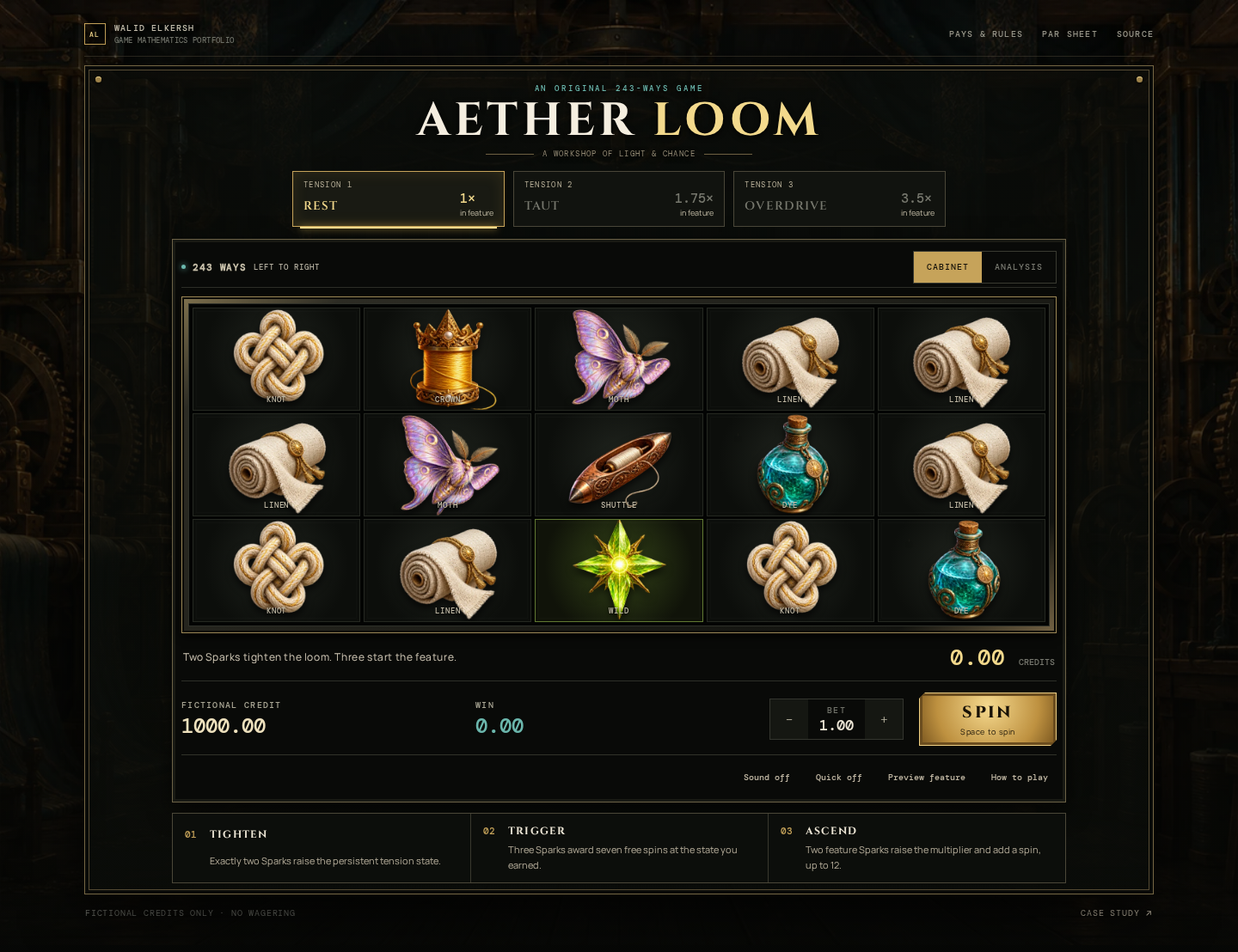
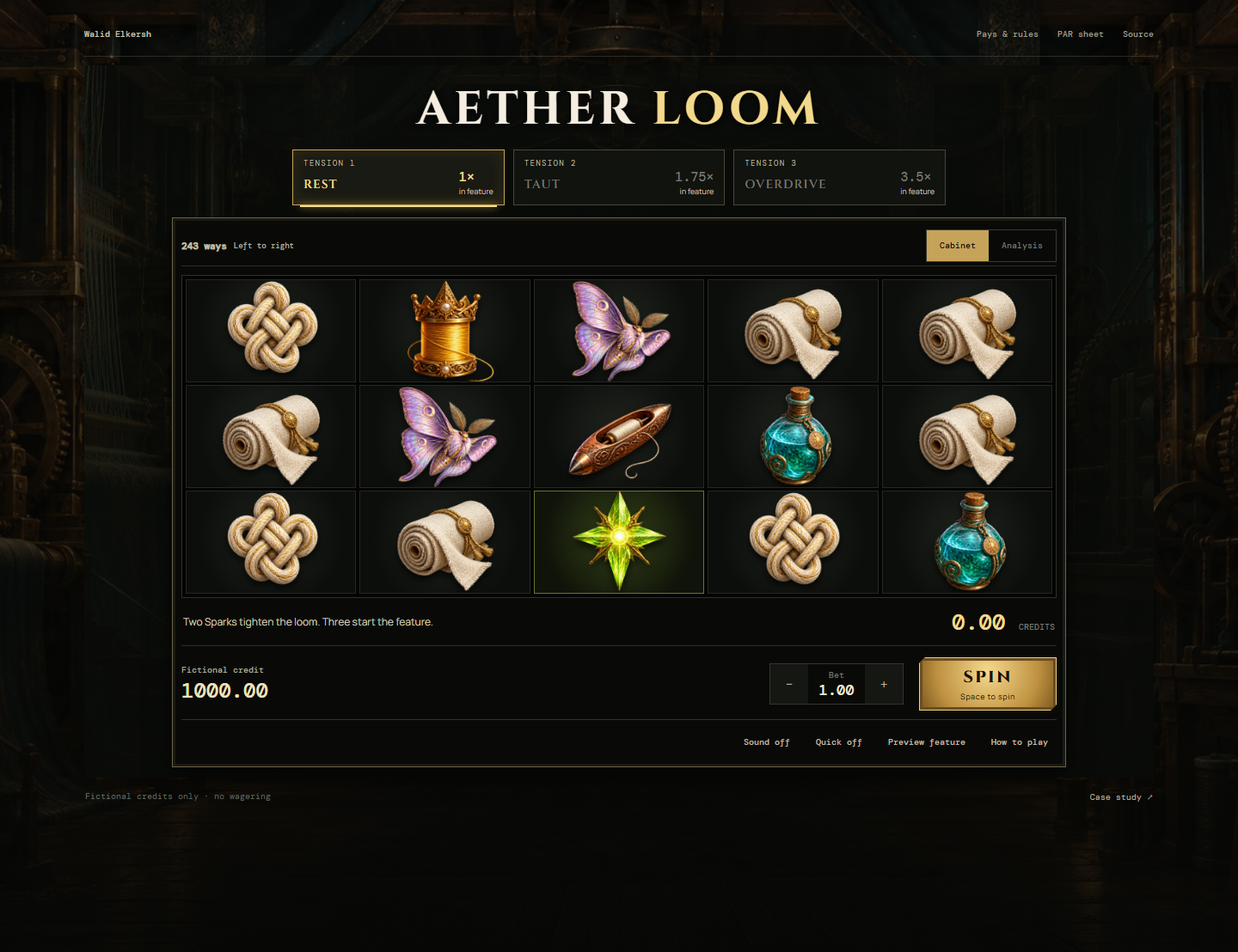
Simplify cabinet UI
Drop the symbol name labels, the taglines, the status dot, the numbered
rules strip and the duplicate win readout. Remove two frame layers and
keep spaced capitals only on the tension ladder.

diff --git a/src/SlotGame.Playable/wwwroot/css/aether-loom.css b/src/SlotGame.Playable/wwwroot/css/aether-loom.css
@@ -1,162 +1,148 @@
 @import url('https://fonts.googleapis.com/css2?family=Cinzel:wght@600;700;800&family=DM+Mono:wght@400;500&family=Manrope:wght@400;600;700&display=swap');
 
 :root{color-scheme:dark;--ink:#eee7d7;--muted:#9c9a8d;--night:#080907;--panel:#10120f;--panel-2:#171a15;--line:#3b3a2e;--brass:#c6a35a;--brass-hi:#f3d98c;--teal:#6bb7ad;--amber:#f0a836;--aether:#b8d84a}
-*{box-sizing:border-box}html{min-height:100%;background:#070806}body{margin:0;min-height:100%;color:var(--ink);font-family:Manrope,system-ui,sans-serif;background:#070806}button,a{font:inherit;color:inherit}button{cursor:pointer}button:disabled{cursor:not-allowed}a{text-decoration:none}.app-shell{min-height:100vh;background:linear-gradient(#06070599,#060705e8),url('../images/loom-workshop.webp') center top/cover fixed no-repeat}.game-page{width:min(1280px,100%);margin:auto;padding:14px clamp(14px,3vw,38px) 28px}.masthead{height:46px;display:flex;align-items:center;justify-content:space-between;border-bottom:1px solid #69604a66;font:500 9px DM Mono;text-transform:uppercase;letter-spacing:.12em}.wordmark{display:flex;align-items:center;gap:10px;color:#c9c2b1}.wordmark small{display:block;margin-top:2px;font-size:7px;color:#74766d}.mark{width:25px;height:25px;display:grid;place-items:center;border:1px solid var(--brass);color:var(--brass-hi);font-size:8px}.masthead nav{display:flex;align-items:center;gap:22px}.masthead nav a,.masthead nav button{border:0;background:none;padding:7px 0;color:var(--muted);font:inherit;text-transform:inherit;letter-spacing:inherit}.masthead nav a:hover,.masthead nav button:hover{color:var(--brass-hi)}
-.cabinet-shell{margin-top:10px;padding:12px clamp(10px,2vw,24px) 0;background:linear-gradient(#090b08dc,#090b08f5),url('../images/loom-workshop.webp') center/cover;border:1px solid #756744;box-shadow:0 18px 65px #000b,inset 0 0 0 4px #090a08,inset 0 0 0 5px #554a33;position:relative}.cabinet-shell:before,.cabinet-shell:after{content:"";position:absolute;top:12px;width:7px;height:7px;border-radius:50%;background:#9d8249;box-shadow:inset 0 1px #ead28d,0 1px 3px #000}.cabinet-shell:before{left:12px}.cabinet-shell:after{right:12px}
-.title-lockup{text-align:center;padding:2px 0 7px;text-shadow:0 2px 6px #000}.title-lockup>p{margin:0;font:500 7px DM Mono;letter-spacing:.32em;color:var(--teal)}.title-lockup h1{margin:1px 0 -1px;font:700 clamp(27px,4vw,46px)/1 Cinzel,serif;letter-spacing:.12em;color:var(--brass-hi)}.title-lockup h1 span{color:#f5eee0}.title-rule{display:flex;align-items:center;justify-content:center;gap:10px}.title-rule i{display:block;width:56px;height:1px;background:#6e6042}.title-rule b{font:500 7px DM Mono;letter-spacing:.24em;color:#918873}
+*{box-sizing:border-box}html{min-height:100%;background:#070806}body{margin:0;min-height:100%;color:var(--ink);font-family:Manrope,system-ui,sans-serif;background:#070806}button, a{font:inherit;color:inherit}button{cursor:pointer}button:disabled{cursor:not-allowed}a{text-decoration:none}.app-shell{min-height:100vh;background:linear-gradient(#06070599,#060705e8),url('../images/loom-workshop.webp') center top/cover fixed no-repeat}.game-page{width:min(1280px,100%);margin:auto;padding:14px clamp(14px,3vw,38px) 28px}.masthead{height:46px;display:flex;align-items:center;justify-content:space-between;border-bottom:1px solid #69604a66;font:500 9px DM Mono}.wordmark{display:flex;align-items:center;gap:10px;color:#c9c2b1}.masthead nav{display:flex;align-items:center;gap:22px}.masthead nav a, .masthead nav button{border:0;background:none;padding:7px 0;color:var(--muted);font:inherit}.masthead nav a:hover, .masthead nav button:hover{color:var(--brass-hi)}
+.cabinet-shell{margin-top:10px;padding:12px clamp(10px,2vw,24px) 0;background:linear-gradient(#090b08dc,#090b08f5),url('../images/loom-workshop.webp') center/cover;position:relative}
+.title-lockup{text-align:center;padding:2px 0 7px;text-shadow:0 2px 6px #000}.title-lockup h1{margin:1px 0 -1px;font:700 clamp(27px,4vw,46px)/1 Cinzel,serif;letter-spacing:.12em;color:var(--brass-hi)}.title-lockup h1 span{color:#f5eee0}
 .tension-ladder{width:min(640px,92%);margin:0 auto 8px;display:grid;grid-template-columns:repeat(3,1fr);gap:6px}.tension-step{position:relative;display:grid;grid-template-columns:1fr auto;align-items:center;padding:5px 9px;border:1px solid #494638;background:#11130f;color:#77786e}.tension-step small{grid-column:1/-1;font:400 6px DM Mono;letter-spacing:.15em}.tension-step strong{font:600 9px Cinzel,serif;letter-spacing:.08em;text-transform:uppercase}.tension-step span{font:500 8px DM Mono}.tension-step.active{border-color:#7e714e;color:#c7b991;background:#191a13}.tension-step.current{border-color:var(--brass);color:var(--brass-hi);box-shadow:inset 0 0 18px #d6aa4022}.tension-step.current:after{content:"";position:absolute;left:8px;right:8px;bottom:-3px;height:2px;background:var(--brass-hi);box-shadow:0 0 8px #e6bd57}
-.machine-card{width:min(900px,100%);margin:auto;background:#090a08;border:1px solid #6c6247;box-shadow:inset 0 0 0 3px #191a14,0 10px 25px #000a;padding:8px 10px 10px}.machine-toolbar{height:30px;display:flex;align-items:center;justify-content:space-between;border-bottom:1px solid #2d2f28}.reel-status{display:flex;align-items:center;gap:8px;font:500 7px DM Mono;text-transform:uppercase;letter-spacing:.08em;color:#8b8b7f}.reel-status strong{color:#c8c0aa}.reel-status small{color:#66685f}.status-lamp{width:5px;height:5px;border-radius:50%;background:var(--teal);box-shadow:0 0 7px var(--teal)}.mode-switch{display:flex;align-items:center;border:1px solid #393a31}.mode-switch button{padding:4px 9px;border:0;background:transparent;color:#77786f;font:500 7px DM Mono;text-transform:uppercase;letter-spacing:.1em}.mode-switch button.active{background:var(--brass);color:#17130a}.feature-banner{margin:7px 0 0;padding:6px 10px;text-align:center;border:1px solid #9b7940;background:#21180b;color:#ffd57d;font:500 8px DM Mono;letter-spacing:.14em;text-transform:uppercase;animation:feature-in .3s ease}
-.reel-bezel{margin-top:8px;padding:7px;background:linear-gradient(145deg,#7e704d,#2d2c24 12%,#12130f 88%,#746344);border:1px solid #9f8a57;box-shadow:inset 0 0 0 2px #080907,0 3px 10px #000}.reel-frame{display:grid;grid-template-columns:repeat(5,1fr);gap:4px;padding:4px;background:#030403;border:1px solid #2e3029;overflow:hidden}.reel{display:grid;grid-template-rows:repeat(3,1fr);gap:3px;transition:filter .16s}.symbol{height:clamp(92px,10vw,128px);display:flex;flex-direction:column;align-items:center;justify-content:center;position:relative;overflow:hidden;background:radial-gradient(circle at 50% 45%,#20241e,#0c0e0b 72%);border:1px solid #252821}.symbol:before{content:"";position:absolute;inset:3px;border:1px solid #ffffff08;pointer-events:none}.symbol-art,.mini-symbol,.pay-art{display:block;background-image:url('../images/symbols-atlas.webp');background-repeat:no-repeat;background-size:400% 200%}.symbol-art{width:min(88%,105px);aspect-ratio:1;filter:drop-shadow(0 5px 5px #000b);transition:transform .18s,filter .18s}.symbol small{position:absolute;bottom:4px;font:500 6px DM Mono;letter-spacing:.18em;color:#858477;text-shadow:0 1px 3px #000}.art-crown{background-position:0 0}.art-moth{background-position:33.333% 0}.art-shuttle{background-position:66.666% 0}.art-dye{background-position:100% 0}.art-linen{background-position:0 100%}.art-knot{background-position:33.333% 100%}.art-wild{background-position:66.666% 100%}.art-spark{background-position:100% 100%}.symbol-wild{background:radial-gradient(circle at 50% 45%,#354519,#101309 74%);border-color:#617932}.symbol-spark{background:radial-gradient(circle at 50% 45%,#4a2c0c,#130d07 74%);border-color:#81531e}.symbol.winner{border-color:var(--brass-hi);background:radial-gradient(circle at 50% 45%,#4b3d1d,#151208 75%);box-shadow:inset 0 0 24px #f3c7602b}.symbol.winner .symbol-art{transform:scale(1.06);filter:drop-shadow(0 0 8px #f6d46a99)}.is-spinning .reel{animation:reel-drop .48s cubic-bezier(.2,.8,.3,1) var(--delay) both;filter:blur(1px)}.is-spinning .symbol-art{animation:art-roll .15s linear infinite}
-.win-readout{min-height:38px;display:flex;align-items:center;justify-content:space-between;gap:18px;padding:6px 2px;border-bottom:1px solid #2d2f28}.win-readout>span{font:400 7px DM Mono;color:#8e8f83;letter-spacing:.05em}.win-readout>strong{font:500 20px DM Mono;color:var(--brass-hi);font-variant-numeric:tabular-nums}.win-readout strong small{font-size:6px;color:#77786f;text-transform:uppercase}.controls{display:grid;grid-template-columns:1fr 1fr auto 106px;align-items:center;gap:16px;padding-top:9px}.credit-block span{display:block;font:500 6px DM Mono;color:#74766d;letter-spacing:.13em;text-transform:uppercase}.credit-block strong{display:block;margin-top:2px;font:500 16px DM Mono;color:#eee1bd;font-variant-numeric:tabular-nums}.win-block strong{color:var(--teal)}.bet-control{height:36px;display:flex;align-items:center;border:1px solid #34362f}.bet-control button{width:29px;height:34px;border:0;background:#151712;color:#bdb7a4;font-size:15px}.bet-control button:hover{background:#22251d}.bet-control span{width:52px;text-align:center}.bet-control small{display:block;font:500 6px DM Mono;color:#707269;letter-spacing:.12em}.bet-control strong{display:block;font:500 11px DM Mono}.spin-button{height:44px;border:1px solid #f1d183;background:radial-gradient(circle at 50% 25%,#f5d98e,#be9140 65%,#78551f);color:#181106;font:800 13px Cinzel,serif;letter-spacing:.12em;box-shadow:inset 0 0 0 3px #6b4d1f,0 2px 7px #000;clip-path:polygon(7px 0,100% 0,100% calc(100% - 7px),calc(100% - 7px) 100%,0 100%,0 7px)}.spin-button:hover{filter:brightness(1.08)}.spin-button:disabled{filter:grayscale(1);opacity:.42}.reset-credits{display:block;margin:7px auto 0;border:0;background:none;color:var(--brass-hi);font:400 7px DM Mono;text-decoration:underline}
-.analysis-view{display:grid;grid-template-columns:.9fr 1.1fr;min-height:406px;margin-top:8px;border:1px solid #37392f;background:#0b0c0a}.analysis-left,.analysis-right{padding:15px}.analysis-left{border-right:1px solid #31332b}.analysis-kicker{margin:0 0 11px;font:500 7px DM Mono;letter-spacing:.16em;color:var(--brass-hi)}.analysis-grid{display:grid;grid-template-columns:repeat(5,1fr);gap:3px;background:#050605;padding:5px;border:1px solid #2f312a}.mini-symbol{width:100%;aspect-ratio:1;background-color:#131510;border:1px solid #292b25}.live-state{margin:12px 0 0}.live-state div{display:flex;justify-content:space-between;gap:12px;padding:7px 0;border-bottom:1px solid #282a24;font:400 7px DM Mono}.live-state dt{color:#77796f}.live-state dd{margin:0;text-align:right;color:#d4cbb3}.rtp-row{display:grid;grid-template-columns:82px 1fr 70px;align-items:center;gap:9px;padding:8px 0;font:400 7px DM Mono}.rtp-row span{color:#93958a}.rtp-row i{height:3px;background:#242720;position:relative}.rtp-row i:after{content:"";display:block;width:var(--value);height:100%;background:var(--teal)}.rtp-row strong{text-align:right;color:#dcd3bc}.rtp-total{display:flex;align-items:end;justify-content:space-between;margin:9px 0 13px;padding:11px;border:1px solid #6f6242;background:#17160e}.rtp-total span{font:500 7px DM Mono;color:#9d987f;text-transform:uppercase}.rtp-total strong{font:500 22px DM Mono;color:var(--brass-hi)}.analysis-metrics{display:grid;grid-template-columns:repeat(2,1fr);gap:1px;background:#313329;border:1px solid #313329}.analysis-metrics div{padding:10px;background:#12140f}.analysis-metrics small{display:block;font:400 6px DM Mono;color:#7e8075;text-transform:uppercase}.analysis-metrics strong{display:block;margin-top:4px;font:500 12px DM Mono;color:#e0d7be}.inspector-note{margin:11px 0 0;font:400 7px/1.6 DM Mono;color:#74766d}
-.rule-strip{width:min(900px,100%);margin:7px auto 0;display:grid;grid-template-columns:repeat(3,1fr);border:1px solid #4b4738;background:#0c0e0b}.rule-strip article{display:grid;grid-template-columns:24px 60px 1fr;align-items:center;gap:8px;padding:7px 10px}.rule-strip article+article{border-left:1px solid #39382e}.rule-strip article>span{font:500 7px DM Mono;color:var(--brass)}.rule-strip h2{margin:0;font:700 8px Cinzel,serif;letter-spacing:.1em}.rule-strip p{margin:0;font:400 6px/1.45 DM Mono;color:#85867c}.project-foot{display:flex;justify-content:space-between;padding:9px 1px 0;font:400 7px DM Mono;text-transform:uppercase;letter-spacing:.08em;color:#686a63}.project-foot a:hover{color:var(--brass-hi)}
-.modal-backdrop{position:fixed;inset:0;z-index:50;display:grid;place-items:center;padding:20px;background:#030403df}.pays-modal{width:min(780px,100%);max-height:90vh;overflow:auto;background:#10120f;border:1px solid #8f7a4d;box-shadow:0 25px 80px #000;padding:18px}.pays-modal>header{display:flex;align-items:center;justify-content:space-between;padding-bottom:13px;border-bottom:1px solid #39382e}.pays-modal header small{font:500 7px DM Mono;color:var(--brass);letter-spacing:.14em}.pays-modal h2{margin:2px 0 0;font:700 24px Cinzel,serif}.pays-modal header button{width:31px;height:31px;border:1px solid #47463b;background:#181a15;color:#d7cfba;font-size:18px}.pays-body{display:grid;grid-template-columns:1.15fr .85fr;gap:20px;margin-top:16px}.pays-body table{width:100%;border-collapse:collapse;font:400 8px DM Mono}.pays-body th,.pays-body td{padding:7px 6px;border-bottom:1px solid #2e3028;text-align:right}.pays-body th:first-child,.pays-body td:first-child{text-align:left}.pays-body td:first-child{display:flex;align-items:center;gap:8px}.pay-art{width:29px;height:29px;background-color:#161812}.rules-copy h3{margin:0 0 4px;font:700 10px Cinzel,serif;color:var(--brass-hi)}.rules-copy p{margin:0 0 14px;font:400 8px/1.55 Manrope;color:#aaa696}.bonus-mode .cabinet-shell{box-shadow:0 18px 80px #102d2999,inset 0 0 0 4px #090a08,inset 0 0 0 5px #4f756d}.bonus-mode .tension-step.current{border-color:var(--teal);color:#b7eee6}#blazor-error-ui{display:none;position:fixed;bottom:0;left:0;right:0;z-index:100;background:#7a241d;color:white;padding:10px}.loading-progress{display:block;margin:38vh auto 14px;width:58px;height:58px}.loading-progress circle{fill:none;stroke:#35342b;stroke-width:7px}.loading-progress circle:last-child{stroke:var(--brass);stroke-dasharray:70 250;animation:loading 1s linear infinite;transform-origin:center}.loading-progress-text{text-align:center;font:500 8px DM Mono;color:#8d8879;letter-spacing:.14em}.loading-progress-text:after{content:"THREADING THE LOOM"}
+.machine-card{width:min(900px,100%);margin:auto;background:#090a08;border:1px solid #6c6247;box-shadow:inset 0 0 0 3px #191a14,0 10px 25px #000a;padding:8px 10px 10px}.machine-toolbar{height:30px;display:flex;align-items:center;justify-content:space-between;border-bottom:1px solid #2d2f28}.reel-status{display:flex;align-items:center;gap:8px;font:500 7px DM Mono;color:#8b8b7f}.reel-status strong{color:#c8c0aa}.reel-status small{color:#66685f}.mode-switch{display:flex;align-items:center;border:1px solid #393a31}.mode-switch button{padding:4px 9px;border:0;background:transparent;color:#77786f;font:500 7px DM Mono}.mode-switch button.active{background:var(--brass);color:#17130a}.feature-banner{margin:7px 0 0;padding:6px 10px;text-align:center;border:1px solid #9b7940;background:#21180b;color:#ffd57d;font:500 8px DM Mono;letter-spacing:.14em;text-transform:uppercase;animation:feature-in .3s ease}
+.reel-bezel{margin-top:8px}.reel-frame{display:grid;grid-template-columns:repeat(5,1fr);gap:4px;padding:4px;background:#030403;border:1px solid #2e3029;overflow:hidden}.reel{display:grid;grid-template-rows:repeat(3,1fr);gap:3px;transition:filter .16s}.symbol{height:clamp(92px,10vw,128px);display:flex;flex-direction:column;align-items:center;justify-content:center;position:relative;overflow:hidden;background:radial-gradient(circle at 50% 45%,#20241e,#0c0e0b 72%);border:1px solid #252821}.symbol-art, .mini-symbol, .pay-art{display:block;background-image:url('../images/symbols-atlas.webp');background-repeat:no-repeat;background-size:400% 200%}.symbol-art{width:min(88%,105px);aspect-ratio:1;filter:drop-shadow(0 5px 5px #000b);transition:transform .18s,filter .18s}.art-crown{background-position:0 0}.art-moth{background-position:33.333% 0}.art-shuttle{background-position:66.666% 0}.art-dye{background-position:100% 0}.art-linen{background-position:0 100%}.art-knot{background-position:33.333% 100%}.art-wild{background-position:66.666% 100%}.art-spark{background-position:100% 100%}.symbol-wild{background:radial-gradient(circle at 50% 45%,#354519,#101309 74%);border-color:#617932}.symbol-spark{background:radial-gradient(circle at 50% 45%,#4a2c0c,#130d07 74%);border-color:#81531e}.symbol.winner{border-color:var(--brass-hi);background:radial-gradient(circle at 50% 45%,#4b3d1d,#151208 75%);box-shadow:inset 0 0 24px #f3c7602b}.symbol.winner .symbol-art{transform:scale(1.06);filter:drop-shadow(0 0 8px #f6d46a99)}.is-spinning .reel{animation:reel-drop .48s cubic-bezier(.2,.8,.3,1) var(--delay) both;filter:blur(1px)}.is-spinning .symbol-art{animation:art-roll .15s linear infinite}
+.win-readout{min-height:38px;display:flex;align-items:center;justify-content:space-between;gap:18px;padding:6px 2px;border-bottom:1px solid #2d2f28}.win-readout>span{font:400 7px DM Mono;color:#8e8f83}.win-readout>strong{font:500 20px DM Mono;color:var(--brass-hi);font-variant-numeric:tabular-nums}.win-readout strong small{font-size:6px;color:#77786f;text-transform:uppercase}.controls{display:grid;grid-template-columns:1fr auto 106px;align-items:center;gap:16px;padding-top:9px}.credit-block span{display:block;font:500 6px DM Mono;color:#74766d}.credit-block strong{display:block;margin-top:2px;font:500 16px DM Mono;color:#eee1bd;font-variant-numeric:tabular-nums}.bet-control{height:36px;display:flex;align-items:center;border:1px solid #34362f}.bet-control button{width:29px;height:34px;border:0;background:#151712;color:#bdb7a4;font-size:15px}.bet-control button:hover{background:#22251d}.bet-control span{width:52px;text-align:center}.bet-control small{display:block;font:500 6px DM Mono;color:#707269}.bet-control strong{display:block;font:500 11px DM Mono}.spin-button{height:44px;border:1px solid #f1d183;background:radial-gradient(circle at 50% 25%,#f5d98e,#be9140 65%,#78551f);color:#181106;font:800 13px Cinzel,serif;letter-spacing:.12em;box-shadow:inset 0 0 0 3px #6b4d1f,0 2px 7px #000;clip-path:polygon(7px 0,100% 0,100% calc(100% - 7px),calc(100% - 7px) 100%,0 100%,0 7px)}.spin-button:hover{filter:brightness(1.08)}.spin-button:disabled{filter:grayscale(1);opacity:.42}.reset-credits{display:block;margin:7px auto 0;border:0;background:none;color:var(--brass-hi);font:400 7px DM Mono;text-decoration:underline}
+.analysis-view{display:grid;grid-template-columns:.9fr 1.1fr;min-height:406px;margin-top:8px;border:1px solid #37392f;background:#0b0c0a}.analysis-left, .analysis-right{padding:15px}.analysis-left{border-right:1px solid #31332b}.analysis-kicker{margin:0 0 11px;font:500 7px DM Mono;color:var(--brass-hi)}.analysis-grid{display:grid;grid-template-columns:repeat(5,1fr);gap:3px;background:#050605;padding:5px;border:1px solid #2f312a}.mini-symbol{width:100%;aspect-ratio:1;background-color:#131510;border:1px solid #292b25}.live-state{margin:12px 0 0}.live-state div{display:flex;justify-content:space-between;gap:12px;padding:7px 0;border-bottom:1px solid #282a24;font:400 7px DM Mono}.live-state dt{color:#77796f}.live-state dd{margin:0;text-align:right;color:#d4cbb3}.rtp-row{display:grid;grid-template-columns:82px 1fr 70px;align-items:center;gap:9px;padding:8px 0;font:400 7px DM Mono}.rtp-row span{color:#93958a}.rtp-row i{height:3px;background:#242720;position:relative}.rtp-row i:after{content:"";display:block;width:var(--value);height:100%;background:var(--teal)}.rtp-row strong{text-align:right;color:#dcd3bc}.rtp-total{display:flex;align-items:end;justify-content:space-between;margin:9px 0 13px;padding:11px;border:1px solid #6f6242;background:#17160e}.rtp-total span{font:500 7px DM Mono;color:#9d987f;text-transform:uppercase}.rtp-total strong{font:500 22px DM Mono;color:var(--brass-hi)}.analysis-metrics{display:grid;grid-template-columns:repeat(2,1fr);gap:1px;background:#313329;border:1px solid #313329}.analysis-metrics div{padding:10px;background:#12140f}.analysis-metrics small{display:block;font:400 6px DM Mono;color:#7e8075;text-transform:uppercase}.analysis-metrics strong{display:block;margin-top:4px;font:500 12px DM Mono;color:#e0d7be}.inspector-note{margin:11px 0 0;font:400 7px/1.6 DM Mono;color:#74766d}.project-foot{display:flex;justify-content:space-between;padding:9px 1px 0;font:400 7px DM Mono;color:#686a63}.project-foot a:hover{color:var(--brass-hi)}
+.modal-backdrop{position:fixed;inset:0;z-index:50;display:grid;place-items:center;padding:20px;background:#030403df}.pays-modal{width:min(780px,100%);max-height:90vh;overflow:auto;background:#10120f;border:1px solid #8f7a4d;box-shadow:0 25px 80px #000;padding:18px}.pays-modal>header{display:flex;align-items:center;justify-content:space-between;padding-bottom:13px;border-bottom:1px solid #39382e}.pays-modal header small{font:500 7px DM Mono;color:var(--brass)}.pays-modal h2{margin:2px 0 0;font:700 24px Cinzel,serif}.pays-modal header button{width:31px;height:31px;border:1px solid #47463b;background:#181a15;color:#d7cfba;font-size:18px}.pays-body{display:grid;grid-template-columns:1.15fr .85fr;gap:20px;margin-top:16px}.pays-body table{width:100%;border-collapse:collapse;font:400 8px DM Mono}.pays-body th, .pays-body td{padding:7px 6px;border-bottom:1px solid #2e3028;text-align:right}.pays-body th:first-child, .pays-body td:first-child{text-align:left}.pays-body td:first-child{display:flex;align-items:center;gap:8px}.pay-art{width:29px;height:29px;background-color:#161812}.rules-copy h3{margin:0 0 4px;font:700 10px Cinzel,serif;color:var(--brass-hi)}.rules-copy p{margin:0 0 14px;font:400 8px/1.55 Manrope;color:#aaa696}.bonus-mode .tension-step.current{border-color:var(--teal);color:#b7eee6}#blazor-error-ui{display:none;position:fixed;bottom:0;left:0;right:0;z-index:100;background:#7a241d;color:white;padding:10px}.loading-progress{display:block;margin:38vh auto 14px;width:58px;height:58px}.loading-progress circle{fill:none;stroke:#35342b;stroke-width:7px}.loading-progress circle:last-child{stroke:var(--brass);stroke-dasharray:70 250;animation:loading 1s linear infinite;transform-origin:center}.loading-progress-text{text-align:center;font:500 8px DM Mono;color:#8d8879;letter-spacing:.14em}.loading-progress-text:after{content:"THREADING THE LOOM"}
 @keyframes loading{to{transform:rotate(360deg)}}@keyframes reel-drop{0%{transform:translateY(-28px);opacity:.1}58%{transform:translateY(7px)}100%{transform:none;opacity:1}}@keyframes art-roll{50%{transform:translateY(13px);opacity:.25}}@keyframes feature-in{from{transform:scaleX(.55);opacity:0}}
-@media(max-width:760px){.game-page{padding:8px}.masthead nav{gap:12px}.masthead nav a:nth-of-type(1){display:none}.title-lockup h1{font-size:28px}.title-lockup>p,.title-rule{display:none}.tension-ladder{width:100%}.tension-step{padding:5px}.machine-card{padding:6px}.reel-status small{display:none}.symbol{height:clamp(69px,24vw,100px)}.symbol small{display:none}.symbol-art{width:96%}.controls{grid-template-columns:1fr 1fr auto}.win-block{display:none}.spin-button{grid-column:1/-1}.analysis-view{grid-template-columns:1fr}.analysis-left{border-right:0;border-bottom:1px solid #31332b}.rule-strip{grid-template-columns:1fr}.rule-strip article+article{border-left:0;border-top:1px solid #39382e}.pays-body{grid-template-columns:1fr}.project-foot{font-size:6px}}
+@media(max-width:760px){.game-page{padding:8px}.masthead nav{gap:12px}.masthead nav a:nth-of-type(1){display:none}.title-lockup h1{font-size:28px}.tension-ladder{width:100%}.tension-step{padding:5px}.machine-card{padding:6px}.reel-status small{display:none}.symbol{height:clamp(69px,24vw,100px)}.symbol-art{width:96%}.controls{grid-template-columns:1fr auto}.spin-button{grid-column:1/-1}.analysis-view{grid-template-columns:1fr}.analysis-left{border-right:0;border-bottom:1px solid #31332b}.pays-body{grid-template-columns:1fr}.project-foot{font-size:6px}}
 @media(prefers-reduced-motion:reduce){*{animation-duration:.01ms!important;transition-duration:.01ms!important}.app-shell{background-attachment:scroll}}
 
 /* Cabinet finish: readable type, deliberate motion, and room for touch. */
-:focus-visible { outline: 2px solid var(--brass-hi); outline-offset: 4px; }
-h1:focus { outline: none; }
-button { touch-action: manipulation; }
-button:disabled { opacity: .45; }
-.game-page { width: min(1320px, 100%); padding-bottom: 24px; }
-.masthead { height: 52px; font-size: 10px; }
-.wordmark small { font-size: 9px; letter-spacing: .04em; }
-.masthead nav button, .masthead nav a { min-height: 44px; display: inline-flex; align-items: center; }
-.cabinet-shell { padding-bottom: 12px; }
-.title-lockup { padding: 8px 0 14px; }
-.title-lockup > p { font-size: 9px; }
-.title-lockup h1 { margin: 5px 0; font-size: clamp(30px, 4.5vw, 54px); letter-spacing: .08em; }
-.title-rule b { font-size: 9px; font-weight: 400; letter-spacing: .15em; }
-.tension-ladder { width: min(760px, 100%); gap: 10px; margin-bottom: 14px; }
-.tension-step { padding: 9px 12px; transition: background .4s, border-color .4s; }
-.tension-step small { font-size: 9px; color: #b6ae97; }
-.tension-step strong { font-size: 14px; margin-top: 3px; }
-.tension-step span { font-size: 15px; }
-.tension-step em { display: block; font: normal 9px Manrope, sans-serif; text-align: right; color: #c6bfa9; }
-.machine-card, .rule-strip { width: min(1040px, 100%); }
-.machine-toolbar { height: 48px; gap: 10px; }
-.reel-status { font-size: 11px; }
-.reel-status small { font-size: 9px; color: #b2ad9e; }
-.mode-switch button { font-size: 10px; min-height: 36px; padding: 7px 15px; }
-.reel-bezel { margin-top: 10px; }
-.symbol { height: clamp(86px, 11vh, 120px); }
-.symbol-art { width: min(87%, 122px); }
-.symbol small { font-size: 9px; bottom: 6px; color: #c0b9a5; letter-spacing: .1em; }
-.symbol:before { border-color: #ffffff05; }
-.symbol.winner { animation: paid-light 1.8s ease-out 2; }
-.is-spinning .reel { animation: none; filter: none; }
-.is-spinning .symbol-art { animation: none; }
-.reel.rolling { filter: blur(2px); }
-.reel.rolling .symbol-art { animation: shuttle-turn .18s linear infinite; }
-.reel.settled { animation: reel-seat .23s ease-out; }
-.preview-label { background: #142622; border: 1px solid #48766c; color: #bfebe2; padding: 10px; font: 500 10px DM Mono, monospace; text-align: center; letter-spacing: .04em; }
-.feature-banner { padding: 12px; font-size: 12px; letter-spacing: .07em; }
-.win-readout { min-height: 56px; }
-.win-readout > span { font: 500 12px/1.5 Manrope, sans-serif; color: #d4cbb9; }
-.win-readout > strong { font-size: 26px; white-space: nowrap; }
-.win-readout strong small { font-size: 10px; }
-.win-lines { display: flex; flex-wrap: wrap; gap: 7px; padding: 8px 0; border-bottom: 1px solid #313329; }
-.win-lines > span { display: flex; gap: 7px; align-items: center; padding: 3px 8px; background: #242114; font-size: 11px; color: #d8ceb7; }
-.win-lines b { color: var(--brass-hi); font-variant-numeric: tabular-nums; }
-.win-lines .pay-art { width: 23px; height: 23px; }
-.controls { grid-template-columns: 1fr 1fr auto 160px; gap: 18px; padding-top: 13px; }
-.credit-block span { font-size: 10px; color: #aaa795; }
-.credit-block strong { font-size: 24px; }
-.bet-control { height: 48px; }
-.bet-control button { height: 46px; width: 44px; }
-.bet-control span { width: 66px; }
-.bet-control small { font-size: 10px; }
-.bet-control strong { font-size: 17px; }
-.spin-button { height: 62px; font-size: 19px; }
-.spin-button small { display: block; font: 500 9px Manrope, sans-serif; letter-spacing: .07em; margin-top: 3px; }
-.utility-bar { display: flex; justify-content: flex-end; gap: 10px; margin-top: 10px; padding-top: 6px; border-top: 1px solid #313329; }
-.utility-bar button { min-height: 38px; padding: 5px 10px; border: 0; background: transparent; font: 500 10px DM Mono, monospace; color: #c0b7a3; }
-.utility-bar button:hover, .utility-bar button[aria-pressed="true"] { color: var(--brass-hi); background: #292617; }
-.reset-credits { min-height: 44px; font-size: 12px; }
-.rule-strip { margin-top: 12px; }
-.rule-strip article { grid-template-columns: 22px 1fr; padding: 12px 14px; gap: 5px 7px; }
-.rule-strip article > span { font-size: 11px; }
-.rule-strip h2 { font-size: 12px; }
-.rule-strip p { grid-column: 2; font: 400 11px/1.6 Manrope, sans-serif; color: #b9b09d; }
-.project-foot { font-size: 10px; padding: 15px 1px; }
-.project-foot a { color: #b9b09d; }
-.analysis-view { min-height: 440px; }
-.analysis-left, .analysis-right { padding: 20px; min-width: 0; }
-.analysis-kicker { font-size: 10px; line-height: 1.6; }
-.live-state div { font-size: 11px; padding: 10px 0; }
-.live-state dt { color: #b1ac9c; }
-.live-state dd { overflow-wrap: anywhere; }
-.rtp-row { font-size: 11px; grid-template-columns: 80px 1fr 88px; }
-.rtp-row span { color: #bfb8a6; }
-.rtp-total { display: block; }
-.rtp-total span { font-size: 10px; }
-.rtp-total strong { display: block; font-size: 29px; margin-top: 8px; }
-.analysis-metrics small { font-size: 9px; color: #b2aa96; }
-.analysis-metrics strong { font-size: 15px; }
-.inspector-note { font: 400 11px/1.65 Manrope, sans-serif; color: #b3ad9c; }
-.session-strip { display: flex; gap: 20px; padding: 10px 0; border-block: 1px solid #39382e; font-size: 11px; }
-.session-strip b { display: block; margin-top: 4px; font: 500 15px DM Mono, monospace; color: var(--teal); }
-.round-history { margin: 12px auto 0; max-width: 1040px; background: #10120f; padding: 12px; border: 1px solid #494638; font-size: 12px; }
-.round-history summary { cursor: pointer; min-height: 32px; }
-.table-scroll { overflow-x: auto; }
-.round-history table { border-collapse: collapse; width: 100%; text-align: left; font: 400 11px DM Mono, monospace; }
-.round-history td, .round-history th { padding: 10px; border-top: 1px solid #35372e; white-space: nowrap; }
-.pays-modal { padding: 24px; }
-.pays-modal header small { font-size: 10px; }
-.pays-modal header button { width: 44px; height: 44px; }
-.pays-body table { font-size: 12px; }
-.pays-body th, .pays-body td { padding: 10px 4px; }
-.rules-copy h3 { font-size: 14px; }
-.rules-copy p { font-size: 12px; line-height: 1.7; color: #c4bcaa; }
-.pay-art { flex-shrink: 0; }
-@keyframes reel-seat { from { transform: translateY(-8px); } 60% { transform: translateY(3px); } to { transform: translateY(0); } }
-@keyframes shuttle-turn { 0% { transform: translateY(-55%); opacity: .1; } 50% { opacity: .7; } 100% { transform: translateY(55%); opacity: .1; } }
-@keyframes paid-light { 50% { border-color: #d5b663; box-shadow: inset 0 0 25px #c9a44945; } }
+:focus-visible{outline: 2px solid var(--brass-hi);outline-offset: 4px}
+h1:focus{outline: none}
+button{touch-action: manipulation}
+button:disabled{opacity: .45}
+.game-page{width: min(1320px, 100%);padding-bottom: 24px}
+.masthead{height: 52px;font-size: 10px}
+.masthead nav button, .masthead nav a{min-height: 44px;display: inline-flex;align-items: center}
+.cabinet-shell{padding-bottom: 12px}
+.title-lockup{padding: 8px 0 14px}
+.title-lockup h1{margin: 5px 0;font-size: clamp(30px, 4.5vw, 54px);letter-spacing: .08em}
+.tension-ladder{width: min(760px, 100%);gap: 10px;margin-bottom: 14px}
+.tension-step{padding: 9px 12px;transition: background .4s, border-color .4s}
+.tension-step small{font-size: 9px;color: #b6ae97}
+.tension-step strong{font-size: 14px;margin-top: 3px}
+.tension-step span{font-size: 15px}
+.tension-step em{display: block;font: normal 9px Manrope, sans-serif;text-align: right;color: #c6bfa9}
+.machine-card{width: min(1040px, 100%)}
+.machine-toolbar{height: 48px;gap: 10px}
+.reel-status{font-size: 11px}
+.reel-status small{font-size: 9px;color: #b2ad9e}
+.mode-switch button{font-size: 10px;min-height: 36px;padding: 7px 15px}
+.reel-bezel{margin-top: 10px}
+.symbol{height: clamp(86px, 11vh, 120px)}
+.symbol-art{width: min(87%, 122px)}
+.symbol.winner{animation: paid-light 1.8s ease-out 2}
+.is-spinning .reel{animation: none;filter: none}
+.is-spinning .symbol-art{animation: none}
+.reel.rolling{filter: blur(2px)}
+.reel.rolling .symbol-art{animation: shuttle-turn .18s linear infinite}
+.reel.settled{animation: reel-seat .23s ease-out}
+.preview-label{background: #142622;border: 1px solid #48766c;color: #bfebe2;padding: 10px;font: 500 10px DM Mono, monospace;text-align: center;letter-spacing: .04em}
+.feature-banner{padding: 12px;font-size: 12px;letter-spacing: .07em}
+.win-readout{min-height: 56px}
+.win-readout > span{font: 500 12px/1.5 Manrope, sans-serif;color: #d4cbb9}
+.win-readout > strong{font-size: 26px;white-space: nowrap}
+.win-readout strong small{font-size: 10px}
+.win-lines{display: flex;flex-wrap: wrap;gap: 7px;padding: 8px 0;border-bottom: 1px solid #313329}
+.win-lines > span{display: flex;gap: 7px;align-items: center;padding: 3px 8px;background: #242114;font-size: 11px;color: #d8ceb7}
+.win-lines b{color: var(--brass-hi);font-variant-numeric: tabular-nums}
+.win-lines .pay-art{width: 23px;height: 23px}
+.controls{grid-template-columns: 1fr auto 160px;gap: 18px;padding-top: 13px}
+.credit-block span{font-size: 10px;color: #aaa795}
+.credit-block strong{font-size: 24px}
+.bet-control{height: 48px}
+.bet-control button{height: 46px;width: 44px}
+.bet-control span{width: 66px}
+.bet-control small{font-size: 10px}
+.bet-control strong{font-size: 17px}
+.spin-button{height: 62px;font-size: 19px}
+.spin-button small{display: block;font: 500 9px Manrope, sans-serif;letter-spacing: .07em;margin-top: 3px}
+.utility-bar{display: flex;justify-content: flex-end;gap: 10px;margin-top: 10px;padding-top: 6px;border-top: 1px solid #313329}
+.utility-bar button{min-height: 38px;padding: 5px 10px;border: 0;background: transparent;font: 500 10px DM Mono, monospace;color: #c0b7a3}
+.utility-bar button:hover, .utility-bar button[aria-pressed="true"]{color: var(--brass-hi);background: #292617}
+.reset-credits{min-height: 44px;font-size: 12px}
+.project-foot{font-size: 10px;padding: 15px 1px}
+.project-foot a{color: #b9b09d}
+.analysis-view{min-height: 440px}
+.analysis-left, .analysis-right{padding: 20px;min-width: 0}
+.analysis-kicker{font-size: 10px;line-height: 1.6}
+.live-state div{font-size: 11px;padding: 10px 0}
+.live-state dt{color: #b1ac9c}
+.live-state dd{overflow-wrap: anywhere}
+.rtp-row{font-size: 11px;grid-template-columns: 80px 1fr 88px}
+.rtp-row span{color: #bfb8a6}
+.rtp-total{display: block}
+.rtp-total span{font-size: 10px}
+.rtp-total strong{display: block;font-size: 29px;margin-top: 8px}
+.analysis-metrics small{font-size: 9px;color: #b2aa96}
+.analysis-metrics strong{font-size: 15px}
+.inspector-note{font: 400 11px/1.65 Manrope, sans-serif;color: #b3ad9c}
+.session-strip{display: flex;gap: 20px;padding: 10px 0;border-block: 1px solid #39382e;font-size: 11px}
+.session-strip b{display: block;margin-top: 4px;font: 500 15px DM Mono, monospace;color: var(--teal)}
+.round-history{margin: 12px auto 0;max-width: 1040px;background: #10120f;padding: 12px;border: 1px solid #494638;font-size: 12px}
+.round-history summary{cursor: pointer;min-height: 32px}
+.table-scroll{overflow-x: auto}
+.round-history table{border-collapse: collapse;width: 100%;text-align: left;font: 400 11px DM Mono, monospace}
+.round-history td, .round-history th{padding: 10px;border-top: 1px solid #35372e;white-space: nowrap}
+.pays-modal{padding: 24px}
+.pays-modal header small{font-size: 10px}
+.pays-modal header button{width: 44px;height: 44px}
+.pays-body table{font-size: 12px}
+.pays-body th, .pays-body td{padding: 10px 4px}
+.rules-copy h3{font-size: 14px}
+.rules-copy p{font-size: 12px;line-height: 1.7;color: #c4bcaa}
+.pay-art{flex-shrink: 0}
+@keyframes reel-seat { from{transform: translateY(-8px)} 60%{transform: translateY(3px)} to{transform: translateY(0)} }
+@keyframes shuttle-turn { 0%{transform: translateY(-55%);opacity: .1} 50%{opacity: .7} 100%{transform: translateY(55%);opacity: .1} }
+@keyframes paid-light { 50%{border-color: #d5b663;box-shadow: inset 0 0 25px #c9a44945} }
 @media (max-width: 760px) {
-    .masthead { font-size: 9px; }
-    .wordmark small { font-size: 8px; }
-    .masthead nav { gap: 10px; }
-    .title-lockup { padding: 12px 0; }
-    .tension-ladder { gap: 4px; }
-    .tension-step { padding: 7px; }
-    .tension-step { grid-template-columns: 1fr; gap: 3px; }
-    .tension-step small { font-size: 8px; }
-    .tension-step strong { font-size: 10px; }
-    .tension-step span { font-size: 12px; }
-    .tension-step em { display: inline; font-size: 8px; }
-    .reel-status { font-size: 10px; }
-    .mode-switch button { min-height: 44px; padding: 7px 10px; }
-    .symbol { height: clamp(68px, 21vw, 126px); }
-    .symbol-art { width: 95%; }
-    .symbol-wild small, .symbol-spark small { display: block; font-size: 8px; bottom: 2px; }
-    .win-readout { flex-wrap: wrap; gap: 6px; padding: 10px 0; }
-    .win-readout > span { font-size: 12px; flex-basis: 100%; }
-    .win-readout > strong { font-size: 23px; }
-    .controls { grid-template-columns: 1fr auto; gap: 12px; }
-    .credit-block strong { font-size: 21px; }
-    .spin-button { width: 100%; grid-column: 1/-1; }
-    .utility-bar { flex-wrap: wrap; justify-content: center; gap: 2px; }
-    .utility-bar button { min-height: 44px; font-size: 10px; }
-    .rule-strip article { padding: 10px 12px; }
-    .project-foot { font-size: 9px; gap: 16px; line-height: 1.6; }
-    .analysis-left, .analysis-right { padding: 12px; }
-    .pays-modal { padding: 16px; }
-    .pays-body table { font-size: 11px; }
+    .masthead{font-size: 9px}
+    .masthead nav{gap: 10px}
+    .title-lockup{padding: 12px 0}
+    .tension-ladder{gap: 4px}
+    .tension-step{padding: 7px}
+    .tension-step{grid-template-columns: 1fr;gap: 3px}
+    .tension-step small{font-size: 8px}
+    .tension-step strong{font-size: 10px}
+    .tension-step span{font-size: 12px}
+    .tension-step em{display: inline;font-size: 8px}
+    .reel-status{font-size: 10px}
+    .mode-switch button{min-height: 44px;padding: 7px 10px}
+    .symbol{height: clamp(68px, 21vw, 126px)}
+    .symbol-art{width: 95%}
+    .symbol-wild small, .symbol-spark small{display: block;font-size: 8px;bottom: 2px}
+    .win-readout{flex-wrap: wrap;gap: 6px;padding: 10px 0}
+    .win-readout > span{font-size: 12px;flex-basis: 100%}
+    .win-readout > strong{font-size: 23px}
+    .controls{grid-template-columns: 1fr auto;gap: 12px}
+    .credit-block strong{font-size: 21px}
+    .spin-button{width: 100%;grid-column: 1/-1}
+    .utility-bar{flex-wrap: wrap;justify-content: center;gap: 2px}
+    .utility-bar button{min-height: 44px;font-size: 10px}
+    .project-foot{font-size: 9px;gap: 16px;line-height: 1.6}
+    .analysis-left, .analysis-right{padding: 12px}
+    .pays-modal{padding: 16px}
+    .pays-body table{font-size: 11px}
 }
 @media (max-height: 800px) and (min-width: 761px) {
-    .game-page { padding-top: 4px; }
-    .masthead { height: 40px; }
-    .title-lockup { padding: 3px 0 8px; }
-    .title-lockup h1 { font-size: 36px; }
-    .symbol { height: 90px; }
-    .symbol-art { max-width: 81px; }
-    .title-rule { display: none; }
-    .controls { padding-top: 8px; }
-    .win-readout { min-height: 42px; }
+    .game-page{padding-top: 4px}
+    .masthead{height: 40px}
+    .title-lockup{padding: 3px 0 8px}
+    .title-lockup h1{font-size: 36px}
+    .symbol{height: 90px}
+    .symbol-art{max-width: 81px}
+    .controls{padding-top: 8px}
+    .win-readout{min-height: 42px}
 }
 @media (prefers-reduced-motion: reduce) {
-    .reel.rolling { filter: none; }
-    .reel.rolling .symbol-art, .reel.settled, .symbol.winner { animation: none; }
+    .reel.rolling{filter: none}
+    .reel.rolling .symbol-art, .reel.settled, .symbol.winner{animation: none}
 }

diff --git a/tests/e2e/game.spec.js b/tests/e2e/game.spec.js
@@ -3,7 +3,7 @@ const { test, expect } = require('@playwright/test');
 test('rules, analysis view and one paid spin', async ({ page }) => {
   await page.goto(process.env.GAME_URL || 'http://127.0.0.1:5098/');
   await expect(page.getByRole('heading', { name: /aether loom/i })).toBeVisible({ timeout: 20000 });
-  await expect(page.getByText('AN ORIGINAL 243-WAYS GAME')).toBeVisible();
+  await expect(page.locator('.tension-ladder')).toBeVisible();
 
   await page.getByRole('button', { name: /pays & rules/i }).click();
   await expect(page.getByRole('heading', { name: /pays & feature/i })).toBeVisible();
